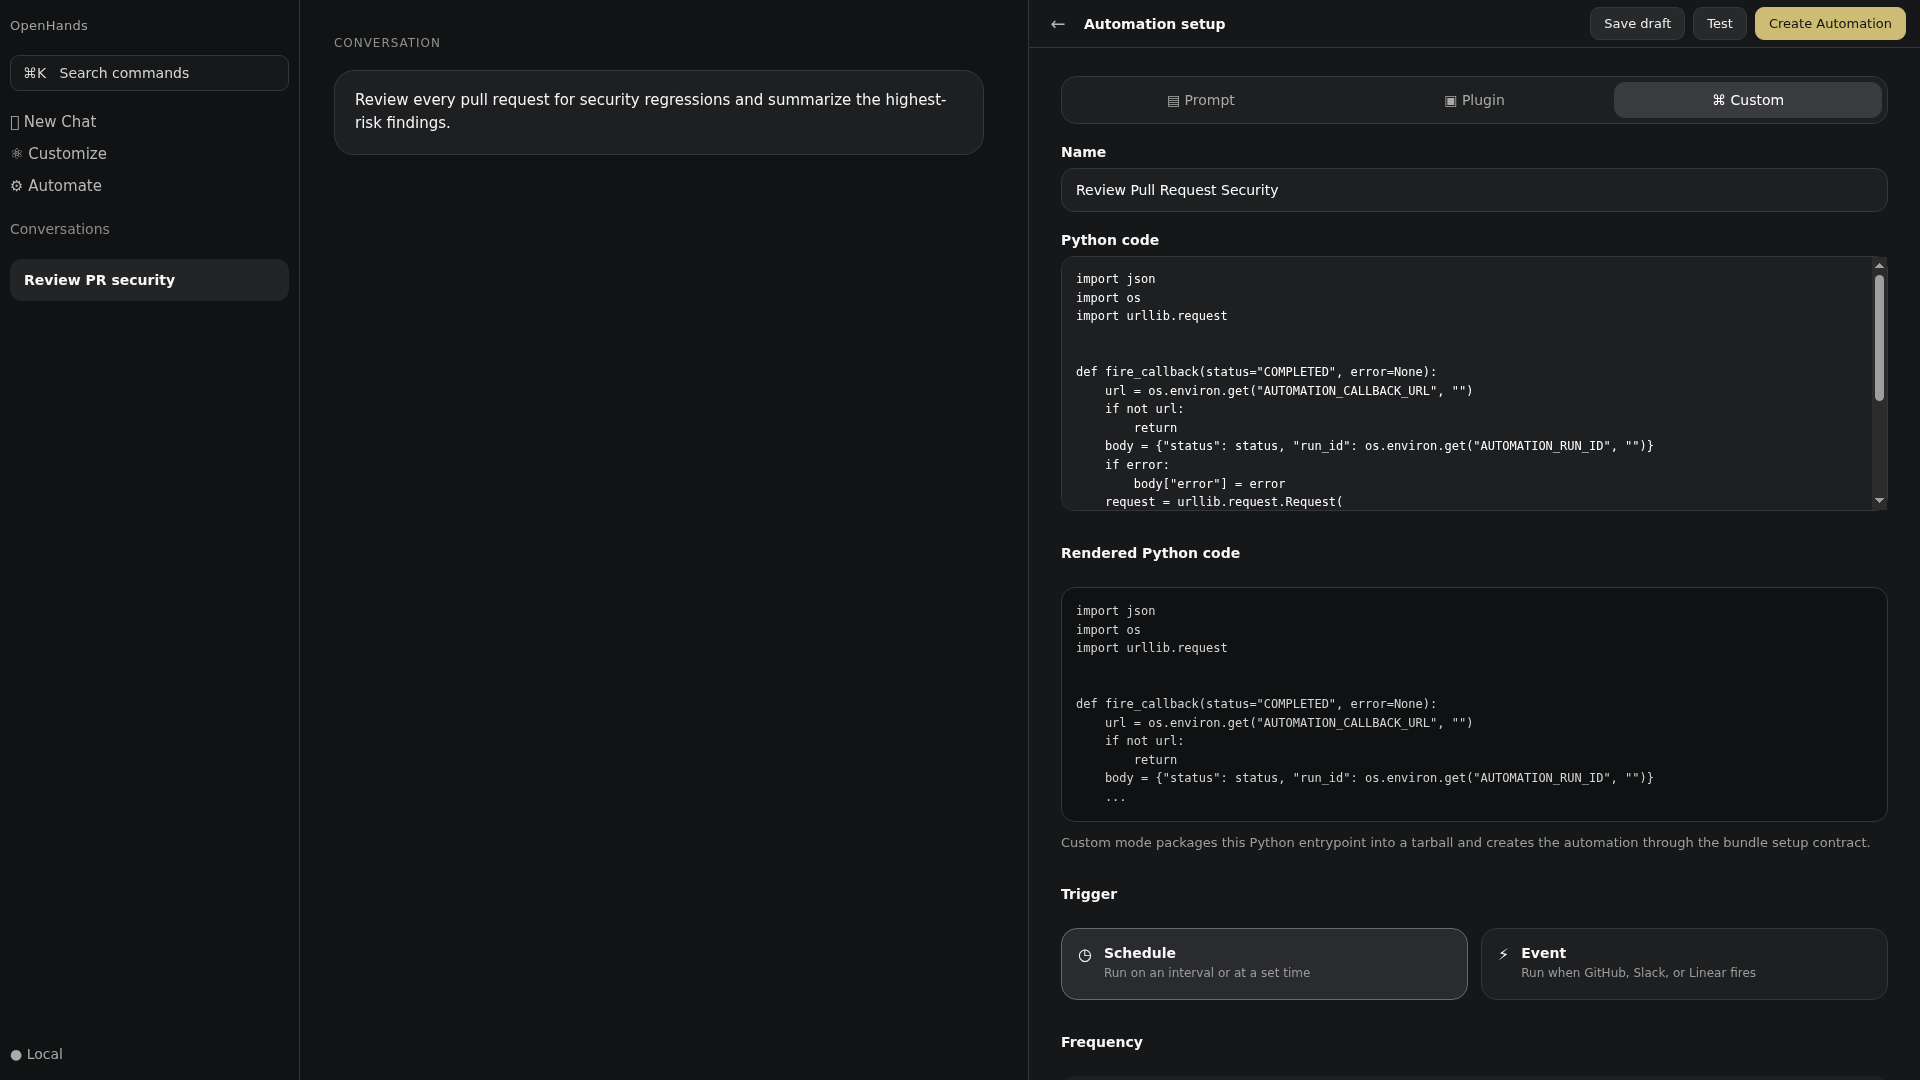
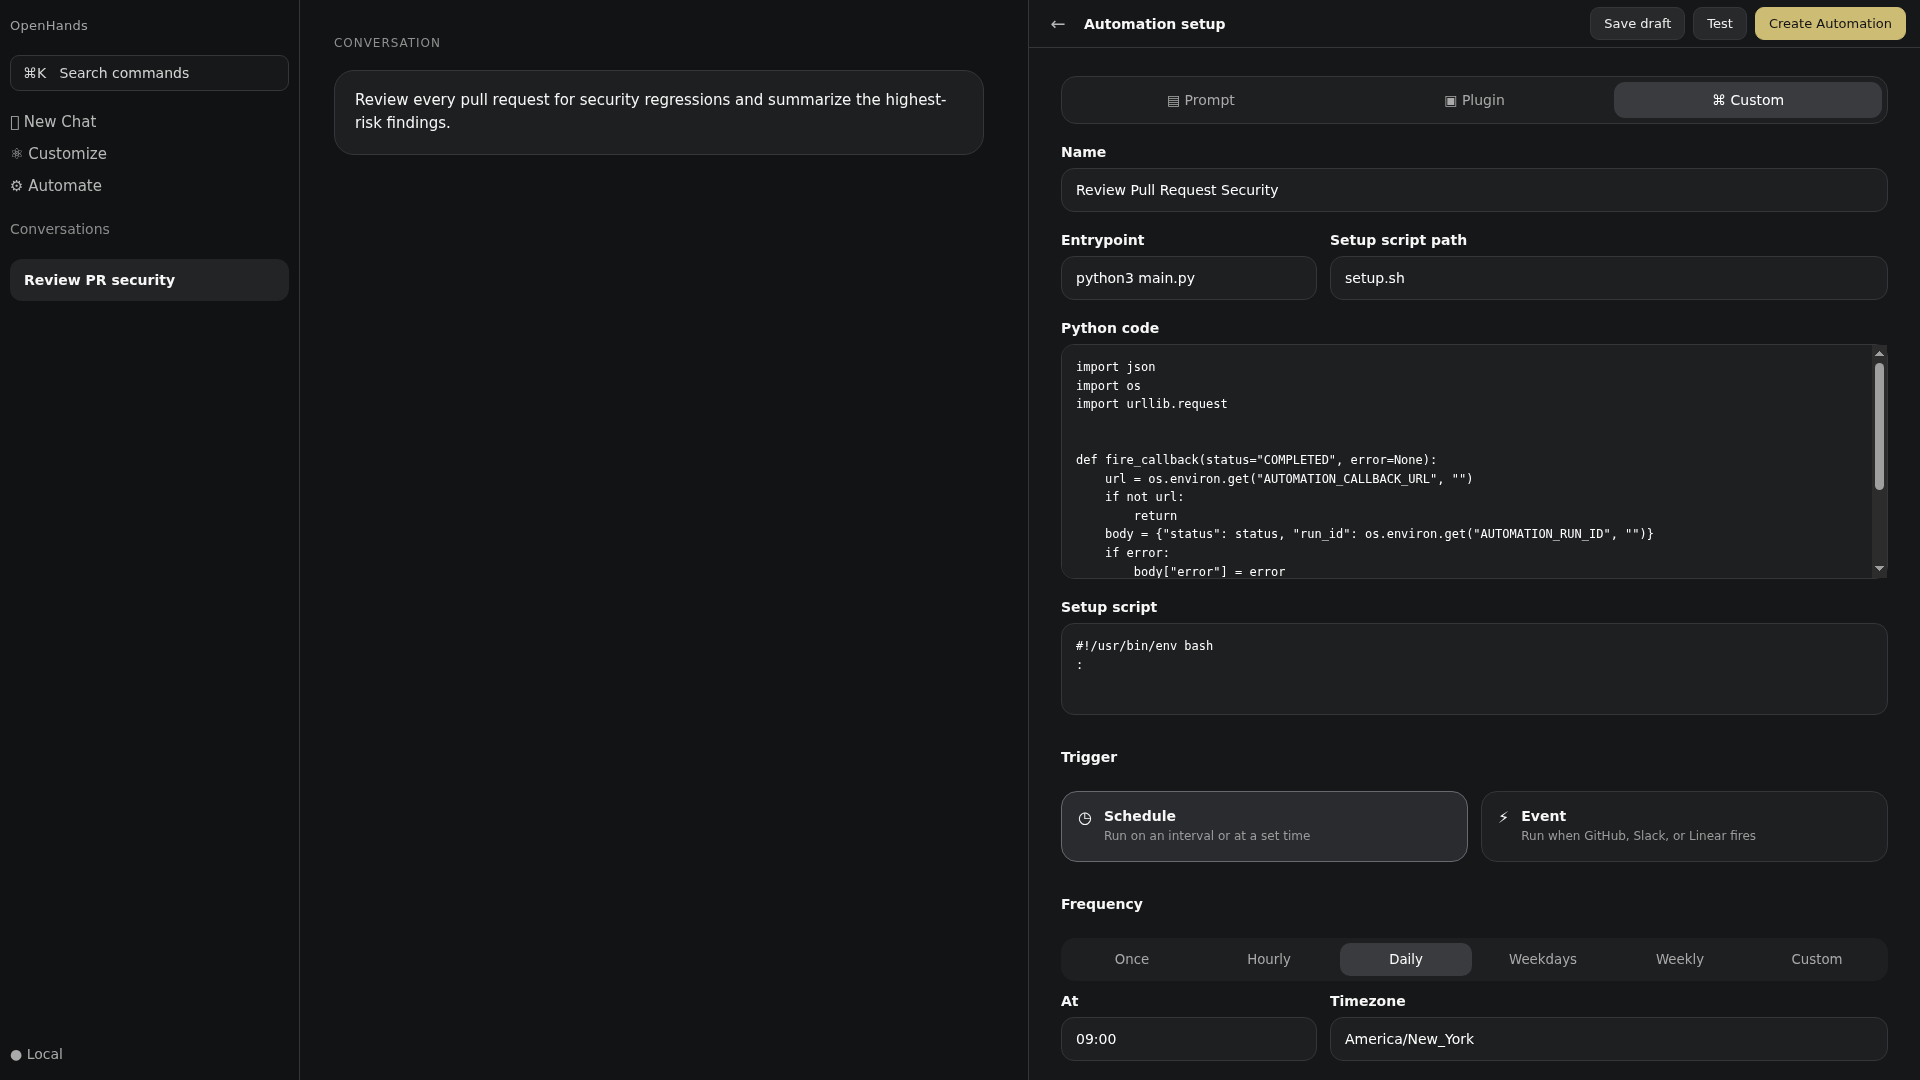
fix: complete custom automation setup form

diff --git a/src/components/features/automations/setup/automation-setup-panel.tsx b/src/components/features/automations/setup/automation-setup-panel.tsx
@@ -1,4 +1,4 @@
-import { useMemo, useState, type ReactNode } from "react";
+import { useState, type ReactNode } from "react";
 import toast from "react-hot-toast";
 import { useTranslation } from "react-i18next";
 import {
@@ -42,8 +42,12 @@ const DEFAULT_TIME = "09:00";
 const DEFAULT_CUSTOM_SCHEDULE = "0 9 * * *";
 const DEFAULT_EVENT_SOURCE = "github";
 const DEFAULT_EVENT_KEY = "issue_comment.created";
-const CUSTOM_ENTRYPOINT = "python3 main.py";
+const DEFAULT_CUSTOM_ENTRYPOINT = "python3 main.py";
 const MAIN_PY_FILENAME = "main.py";
+const DEFAULT_CUSTOM_SETUP_SCRIPT_PATH = "setup.sh";
+const DEFAULT_CUSTOM_SETUP_SCRIPT = `#!/usr/bin/env bash
+:
+`;
 const DEFAULT_TIMEOUT_SECONDS = "600";
 const PREFLIGHT_TARBALL_PATH =
   "oh-internal://uploads/00000000-0000-0000-0000-000000000000";
@@ -152,6 +156,11 @@ export function AutomationSetupPanel({
   const [customCode, setCustomCode] = useState(() =>
     buildStarterPython(draft.prompt),
   );
+  const [entrypoint, setEntrypoint] = useState(DEFAULT_CUSTOM_ENTRYPOINT);
+  const [setupScriptPath, setSetupScriptPath] = useState(
+    DEFAULT_CUSTOM_SETUP_SCRIPT_PATH,
+  );
+  const [setupScript, setSetupScript] = useState(DEFAULT_CUSTOM_SETUP_SCRIPT);
   const [triggerKind, setTriggerKind] = useState<TriggerKind>("cron");
   const [frequency, setFrequency] = useState<Frequency>("daily");
   const [time, setTime] = useState(DEFAULT_TIME);
@@ -165,10 +174,6 @@ export function AutomationSetupPanel({
   const [statusMessage, setStatusMessage] = useState<StatusMessage>(null);
   const [isSubmitting, setIsSubmitting] = useState(false);
 
-  const codePreview = useMemo(
-    () => (kind === "custom" ? customCode : buildStarterPython(prompt)),
-    [customCode, kind, prompt],
-  );
   const normalizedName = () => name.trim() || deriveName(prompt);
   const buildTrigger = () =>
     triggerKind === "event"
@@ -210,7 +215,8 @@ export function AutomationSetupPanel({
       name: normalizedName(),
       trigger: buildTrigger(),
       tarball_path: tarballPath,
-      entrypoint: CUSTOM_ENTRYPOINT,
+      entrypoint: entrypoint.trim(),
+      setup_script_path: setupScriptPath.trim(),
       ...(showTimeout && timeoutSeconds.trim()
         ? { timeout: Number(timeoutSeconds) }
         : {}),
@@ -234,6 +240,27 @@ export function AutomationSetupPanel({
       setStatusMessage({
         kind: "error",
         text: t(I18nKey.AUTOMATION_SETUP$CODE_REQUIRED),
+      });
+      return false;
+    }
+    if (kind === "custom" && !entrypoint.trim()) {
+      setStatusMessage({
+        kind: "error",
+        text: t(I18nKey.AUTOMATION_SETUP$ENTRYPOINT_REQUIRED),
+      });
+      return false;
+    }
+    if (kind === "custom" && !setupScriptPath.trim()) {
+      setStatusMessage({
+        kind: "error",
+        text: t(I18nKey.AUTOMATION_SETUP$SETUP_SCRIPT_PATH_REQUIRED),
+      });
+      return false;
+    }
+    if (kind === "custom" && !setupScript.trim()) {
+      setStatusMessage({
+        kind: "error",
+        text: t(I18nKey.AUTOMATION_SETUP$SETUP_SCRIPT_REQUIRED),
       });
       return false;
     }
@@ -276,6 +303,11 @@ export function AutomationSetupPanel({
       if (kind === "custom") {
         const archive = await packTarGzip([
           { name: MAIN_PY_FILENAME, content: customCode, mode: 0o644 },
+          {
+            name: setupScriptPath.trim(),
+            content: setupScript,
+            mode: 0o755,
+          },
         ]);
         const tarballPath = await AutomationService.uploadAutomationTarball(
           normalizedName(),
@@ -401,8 +433,13 @@ export function AutomationSetupPanel({
           ) : (
             <CustomCodeFields
               code={customCode}
-              codePreview={codePreview}
+              entrypoint={entrypoint}
+              setupScriptPath={setupScriptPath}
+              setupScript={setupScript}
               onCodeChange={setCustomCode}
+              onEntrypointChange={setEntrypoint}
+              onSetupScriptPathChange={setSetupScriptPath}
+              onSetupScriptChange={setSetupScript}
             />
           )}
 
@@ -577,35 +614,71 @@ function PromptFields({
 
 function CustomCodeFields({
   code,
-  codePreview,
+  entrypoint,
+  setupScriptPath,
+  setupScript,
   onCodeChange,
+  onEntrypointChange,
+  onSetupScriptPathChange,
+  onSetupScriptChange,
 }: {
   code: string;
-  codePreview: string;
+  entrypoint: string;
+  setupScriptPath: string;
+  setupScript: string;
   onCodeChange: (value: string) => void;
+  onEntrypointChange: (value: string) => void;
+  onSetupScriptPathChange: (value: string) => void;
+  onSetupScriptChange: (value: string) => void;
 }) {
   const { t } = useTranslation("openhands");
   return (
-    <Field label={t(I18nKey.AUTOMATION_SETUP$PYTHON_CODE)}>
-      <textarea
-        data-testid="automation-setup-custom-code"
-        rows={12}
-        value={code}
-        onChange={(event) => onCodeChange(event.target.value)}
-        className={cn(formControlMultilineFieldClassName, "font-mono text-xs")}
-      />
-      <div className="rounded-xl border border-[var(--oh-border)] bg-[#0f0f10] p-4">
-        <div className="mb-3 text-xs text-[var(--oh-muted)]">
-          {t(I18nKey.AUTOMATION_SETUP$RENDERED_CODE)}
-        </div>
-        <pre
-          data-testid="automation-setup-rendered-code"
-          className="max-h-80 overflow-auto whitespace-pre-wrap font-mono text-xs leading-5 text-tertiary-light"
-        >
-          {codePreview}
-        </pre>
+    <div className="flex flex-col gap-4">
+      <div className="grid gap-3 md:grid-cols-[2fr_1fr]">
+        <Field label={t(I18nKey.AUTOMATION_SETUP$ENTRYPOINT)}>
+          <input
+            data-testid="automation-setup-entrypoint"
+            value={entrypoint}
+            onChange={(event) => onEntrypointChange(event.target.value)}
+            className={formControlFieldClassName}
+          />
+        </Field>
+        <Field label={t(I18nKey.AUTOMATION_SETUP$SETUP_SCRIPT_PATH)}>
+          <input
+            data-testid="automation-setup-setup-script-path"
+            value={setupScriptPath}
+            onChange={(event) => onSetupScriptPathChange(event.target.value)}
+            className={formControlFieldClassName}
+          />
+        </Field>
       </div>
-    </Field>
+      <Field label={t(I18nKey.AUTOMATION_SETUP$PYTHON_CODE)}>
+        <textarea
+          data-testid="automation-setup-custom-code"
+          rows={12}
+          value={code}
+          onChange={(event) => onCodeChange(event.target.value)}
+          spellCheck={false}
+          className={cn(
+            formControlMultilineFieldClassName,
+            "font-mono text-xs",
+          )}
+        />
+      </Field>
+      <Field label={t(I18nKey.AUTOMATION_SETUP$SETUP_SCRIPT)}>
+        <textarea
+          data-testid="automation-setup-setup-script"
+          rows={4}
+          value={setupScript}
+          onChange={(event) => onSetupScriptChange(event.target.value)}
+          spellCheck={false}
+          className={cn(
+            formControlMultilineFieldClassName,
+            "font-mono text-xs",
+          )}
+        />
+      </Field>
+    </div>
   );
 }
 

diff --git a/__tests__/components/automations/automation-setup-panel.test.tsx b/__tests__/components/automations/automation-setup-panel.test.tsx
@@ -8,6 +8,7 @@ import {
 import { AutomationSetupPanel } from "#/components/features/automations/setup/automation-setup-panel";
 import AutomationService from "#/api/automation-service/automation-service.api";
 import type { AutomationSetupDraft } from "#/api/automation-setup-draft-store";
+import { packTarGzip } from "#/utils/tar-gzip";
 
 const mockNavigate = vi.fn();
 const mockToastSuccess = vi.fn();
@@ -30,6 +31,10 @@ vi.mock("#/api/automation-service/automation-service.api", () => ({
     createAutomationDraft: vi.fn(),
     uploadAutomationTarball: vi.fn(),
   },
+}));
+
+vi.mock("#/utils/tar-gzip", () => ({
+  packTarGzip: vi.fn().mockResolvedValue(new Uint8Array([1, 2, 3])),
 }));
 
 vi.mock("#/manifests/automation-interface", () => ({
@@ -81,9 +86,22 @@ describe("AutomationSetupPanel", () => {
     ).toBeInTheDocument();
 
     await user.click(screen.getByTestId("automation-setup-kind-custom"));
+    expect(screen.getByTestId("automation-setup-entrypoint")).toHaveValue(
+      "python3 main.py",
+    );
     expect(
-      screen.getByTestId("automation-setup-rendered-code"),
-    ).toHaveTextContent("Review every pull request");
+      screen.getByTestId("automation-setup-setup-script-path"),
+    ).toHaveValue("setup.sh");
+    expect(
+      (
+        screen.getByTestId(
+          "automation-setup-custom-code",
+        ) as HTMLTextAreaElement
+      ).value,
+    ).toContain("Review every pull request");
+    expect(
+      screen.queryByTestId("automation-setup-rendered-code"),
+    ).not.toBeInTheDocument();
     expect(
       screen.queryByTestId("automation-setup-prompt"),
     ).not.toBeInTheDocument();
@@ -144,5 +162,47 @@ describe("AutomationSetupPanel", () => {
       ),
     );
     expect(mockNavigate).toHaveBeenCalledWith("/automations/automation-1");
+  });
+
+  it("creates custom bundle drafts with entrypoint and setup script path", async () => {
+    vi.mocked(AutomationService.uploadAutomationTarball).mockResolvedValue(
+      "oh-internal://uploads/custom-archive",
+    );
+    vi.mocked(AutomationService.createAutomationDraft).mockResolvedValue({
+      id: "automation-custom",
+    });
+
+    const user = userEvent.setup();
+    renderPanel({
+      prompt: "Run a custom security check",
+      kind: "custom",
+    });
+
+    await user.clear(screen.getByTestId("automation-setup-entrypoint"));
+    await user.type(
+      screen.getByTestId("automation-setup-entrypoint"),
+      "python3 main.py --once",
+    );
+    await user.click(screen.getByTestId("automation-setup-create"));
+
+    await waitFor(() =>
+      expect(AutomationService.uploadAutomationTarball).toHaveBeenCalledWith(
+        "Run A Custom Security",
+        new Uint8Array([1, 2, 3]),
+      ),
+    );
+    expect(packTarGzip).toHaveBeenCalledWith([
+      expect.objectContaining({ name: "main.py", mode: 0o644 }),
+      expect.objectContaining({ name: "setup.sh", mode: 0o755 }),
+    ]);
+    expect(AutomationService.createAutomationDraft).toHaveBeenCalledWith(
+      expect.objectContaining({
+        tarball_path: "oh-internal://uploads/custom-archive",
+        entrypoint: "python3 main.py --once",
+        setup_script_path: "setup.sh",
+      }),
+      "custom",
+    );
+    expect(mockNavigate).toHaveBeenCalledWith("/automations/automation-custom");
   });
 });
